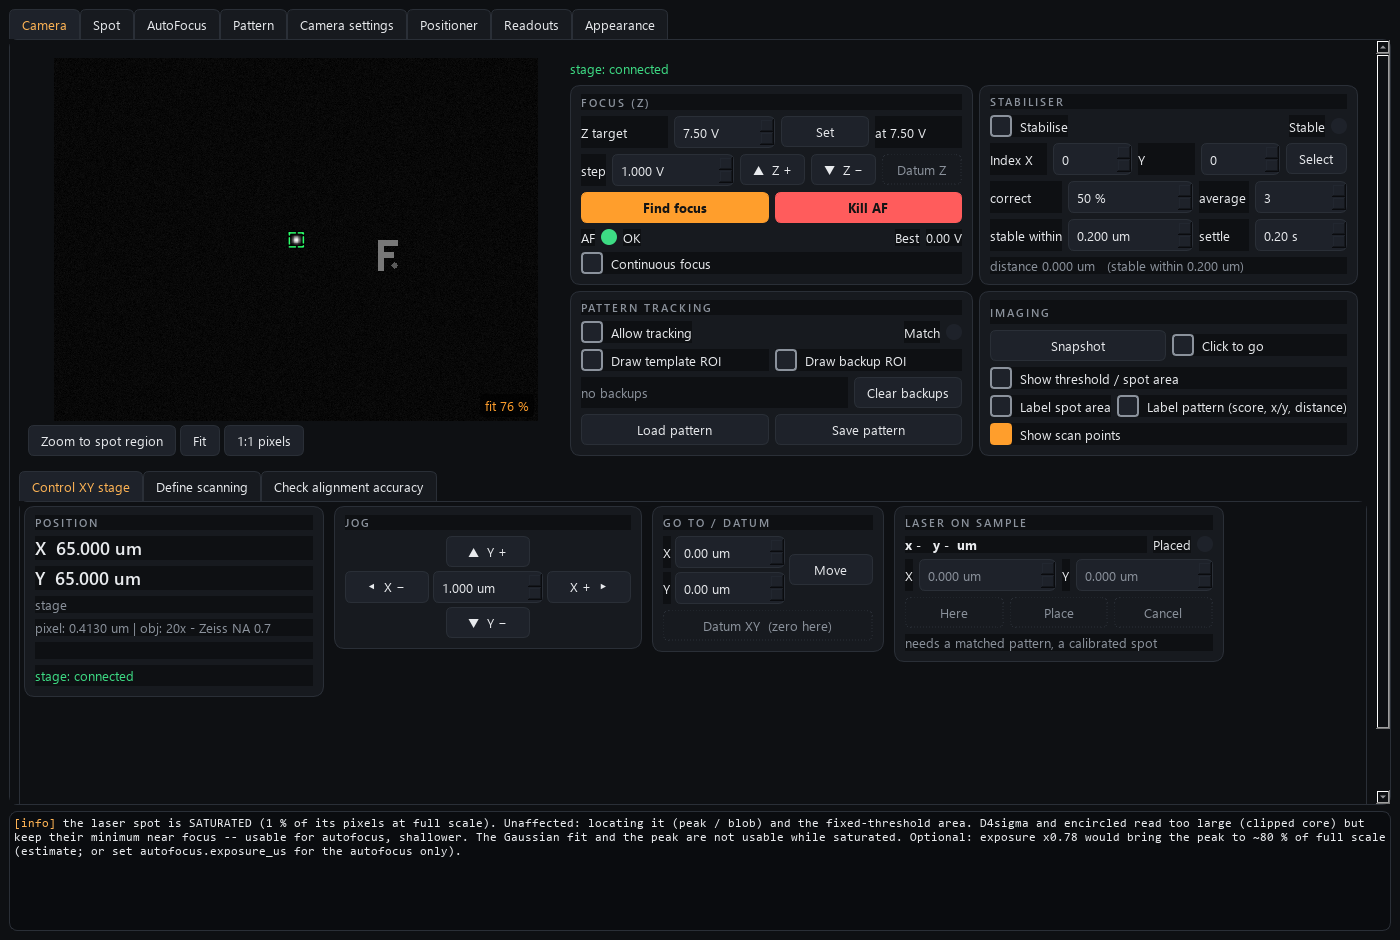
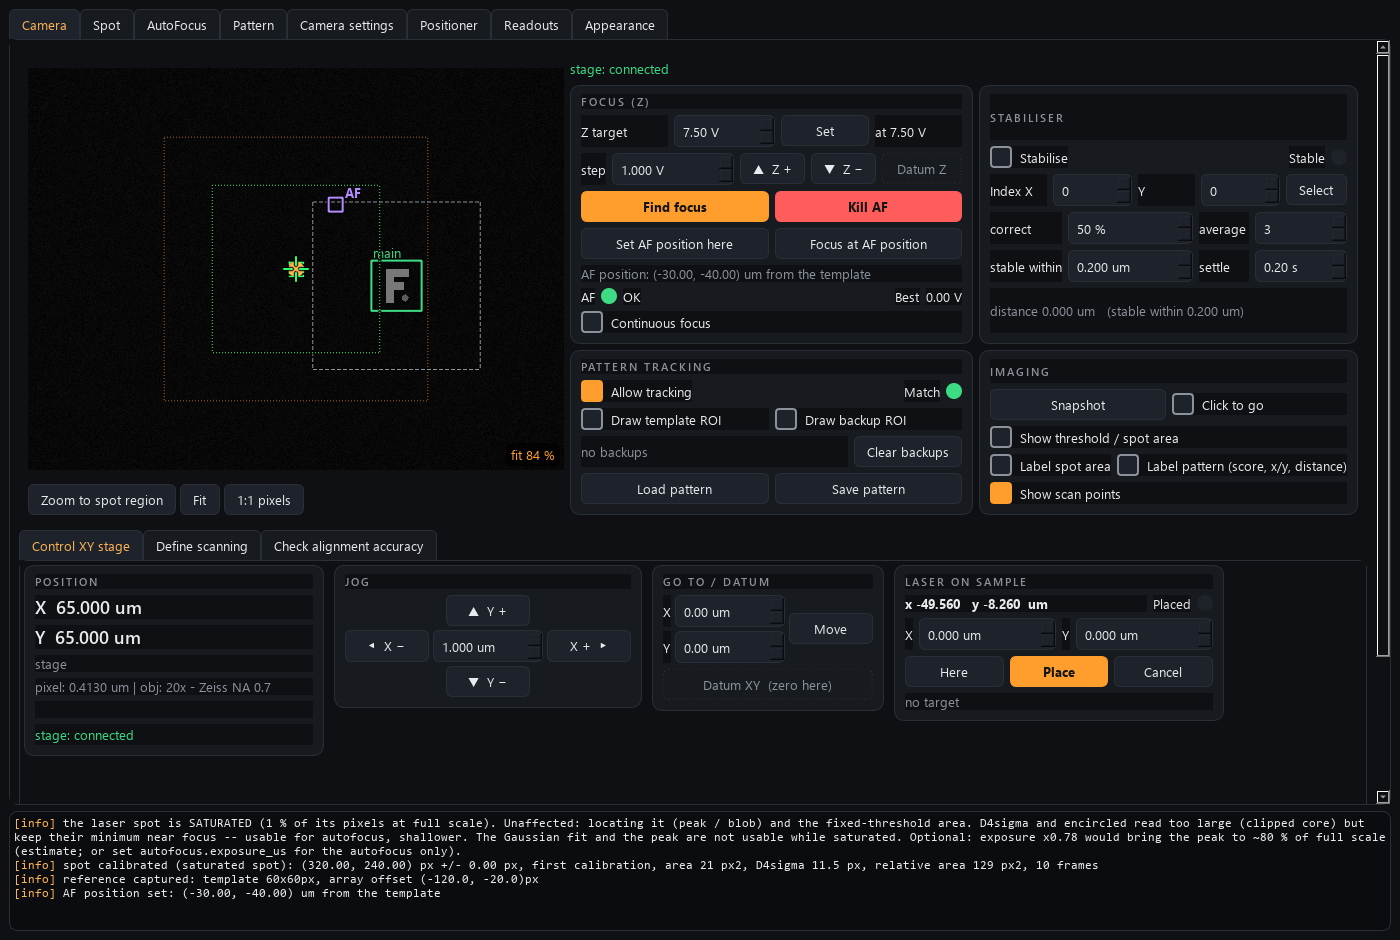
render: camera panel shows the AF position mark and buttons

diff --git a/tools/render_panels.py b/tools/render_panels.py
@@ -273,7 +273,18 @@ def _camera(theme, tab: str | None = None):
     def warm_up(win):
         # Tracking on so the overlays (spot crosshair, template box, scan grid)
         # are drawn -- they are the point of this panel.
-        fn = getattr(getattr(win, "ctrl", None), "set_tracking", None)
+        c = getattr(win, "ctrl", None)
+        # 2026-10-10: a calibrated spot, a template and an AF position, so the
+        # violet "AF" mark and the AF-position buttons are shown working
+        try:
+            c.calibrate_spot(10)
+            cam = built[1]
+            tcx, tcy = cam.template_center_px()
+            c.capture_reference((tcx, tcy, 60, 60))
+            c.set_af_position("um", x_um=-30.0, y_um=-40.0)
+        except Exception:
+            pass
+        fn = getattr(c, "set_tracking", None)
         if fn:
             fn(True)
         if tab:
